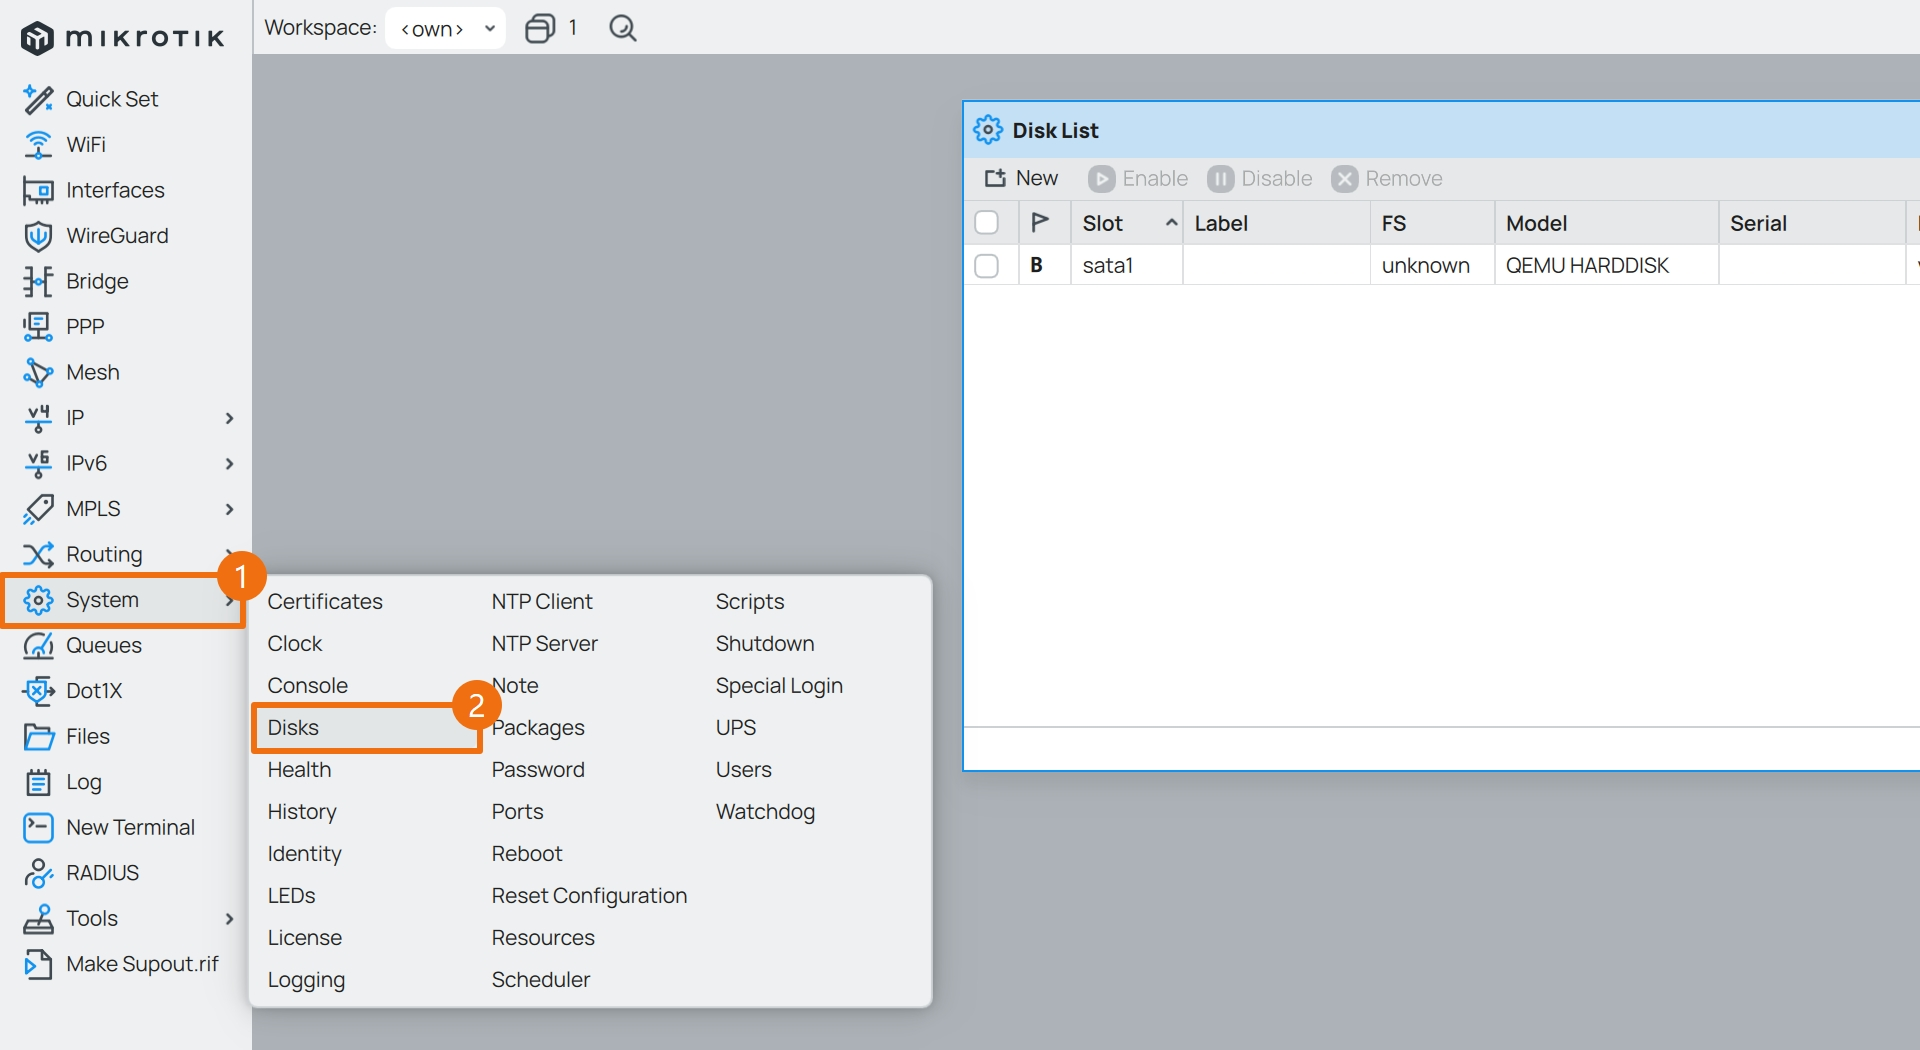
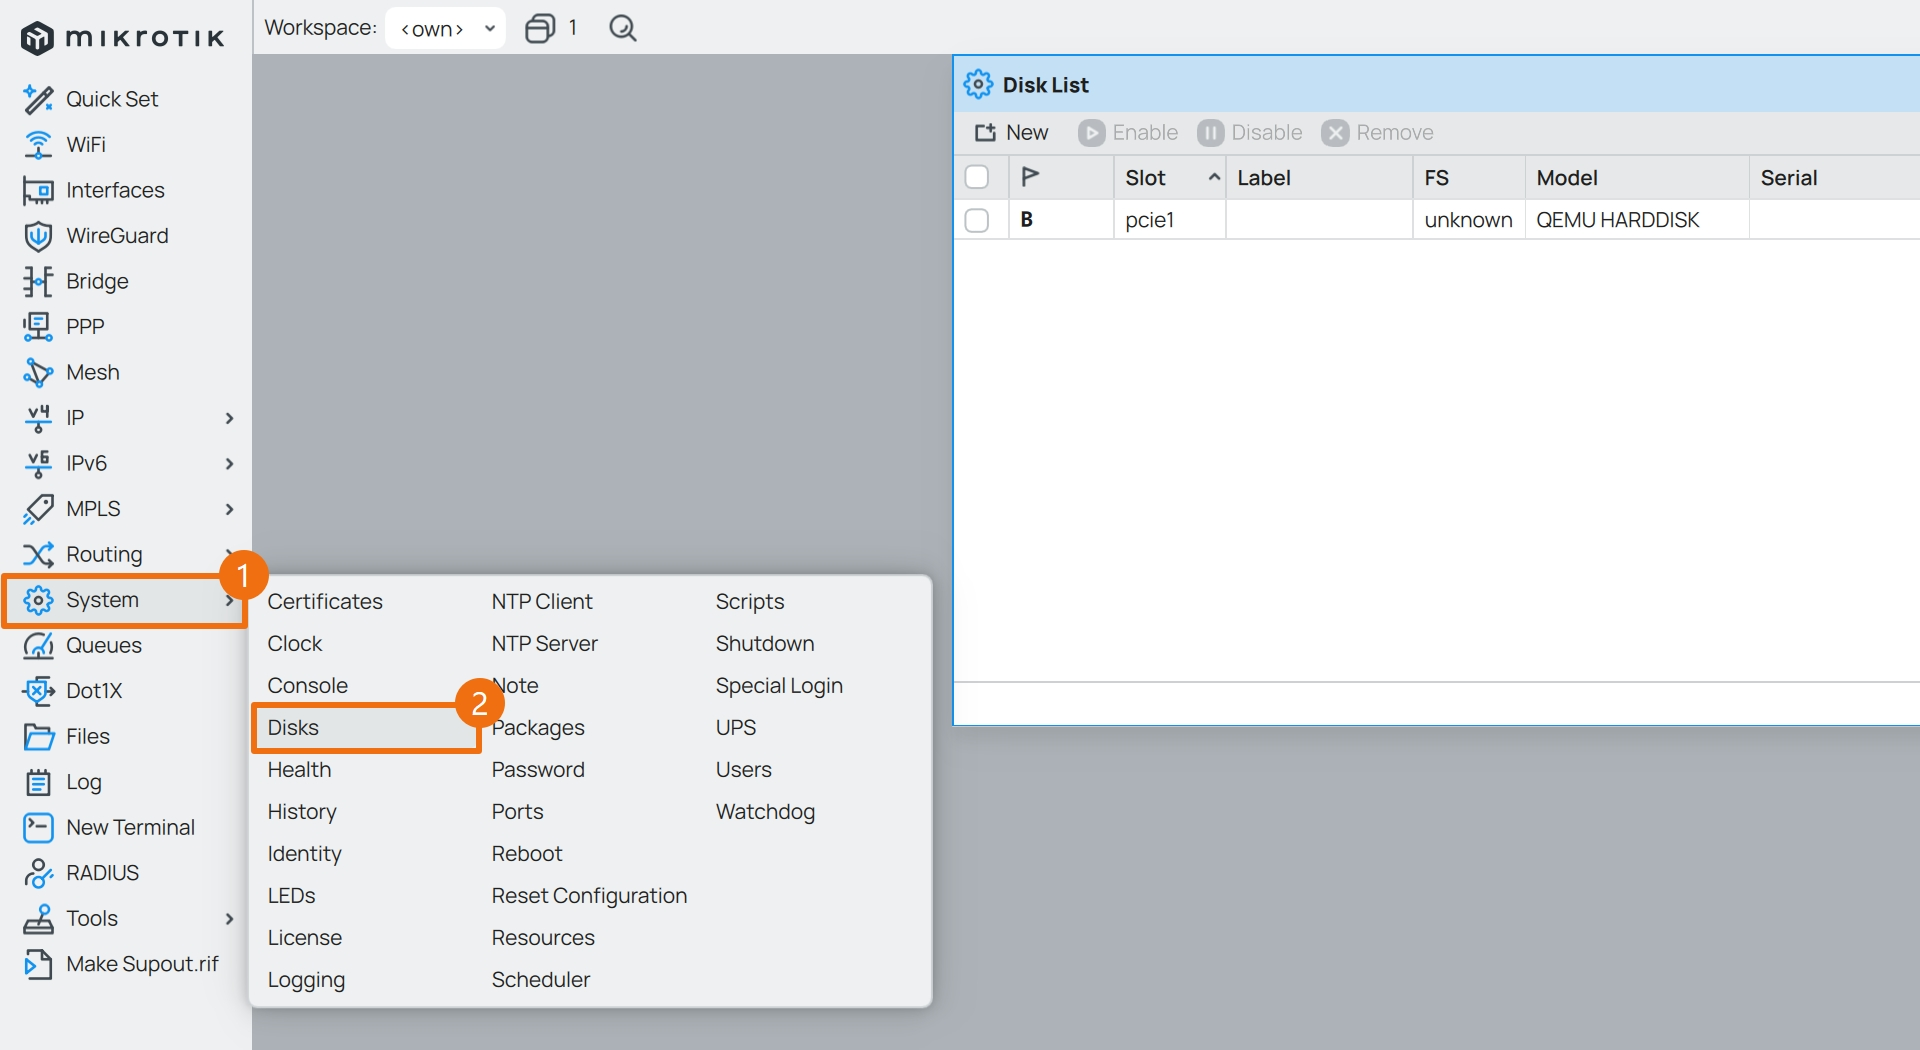
跟进 RouterOS 7.18 *) disk - fix detecting disks on virtual machines;

diff --git a/09.设置系统参数.md b/09.设置系统参数.md
@@ -180,7 +180,7 @@ set enabled=no
 
 |参数|值|说明|
 |--|--|--|
-|Slot|`sata1`|选择待格式化硬盘的槽位|
+|Slot|`pcie1`|选择待格式化硬盘的槽位|
 |File System|`ext4`|硬盘的文件系统，建议 CHR 选择 `ext4`|
 |Label|`logdrive`|硬盘的标签，可用英文自由定义|
 |MBR Partition Table| **不勾选** |建议不勾选，避免产生额外的分区|
@@ -205,13 +205,13 @@ set enabled=no
 |--|--|--|
 |Name|`syslog`|名称，可用英文自由定义|
 |Type|`disk`|表示操作方式为写入硬盘|
-|File Name|`sata1/offline-log`|文件路径以及文件名称前缀|
+|File Name|`pcie1/offline-log`|文件路径以及文件名称前缀|
 |Lines Per File|`1000`|每个文件的行数，保持默认 1000 即可|
 |File Count|`100`|保留的日志文件数|
 |Stop on Full|不勾选|是否在容量用尽时停止|
 
 **注意：**   
-**文件路径 `sata1` 为之前硬盘路径，需要根据实际情况进行调整。**   
+**文件路径 `pcie1` 为之前硬盘路径，需要根据实际情况进行调整。**   
 **每个日志文件记录了 `1000` 行日志条目后就会新创建一个日志文件。**   
 **设置了 `File Count` 为 `100` 后，该日志硬盘中将总共有 `100` 个日志文件，共计 `100,000 (1000 x 100)` 行日志。**   
 
